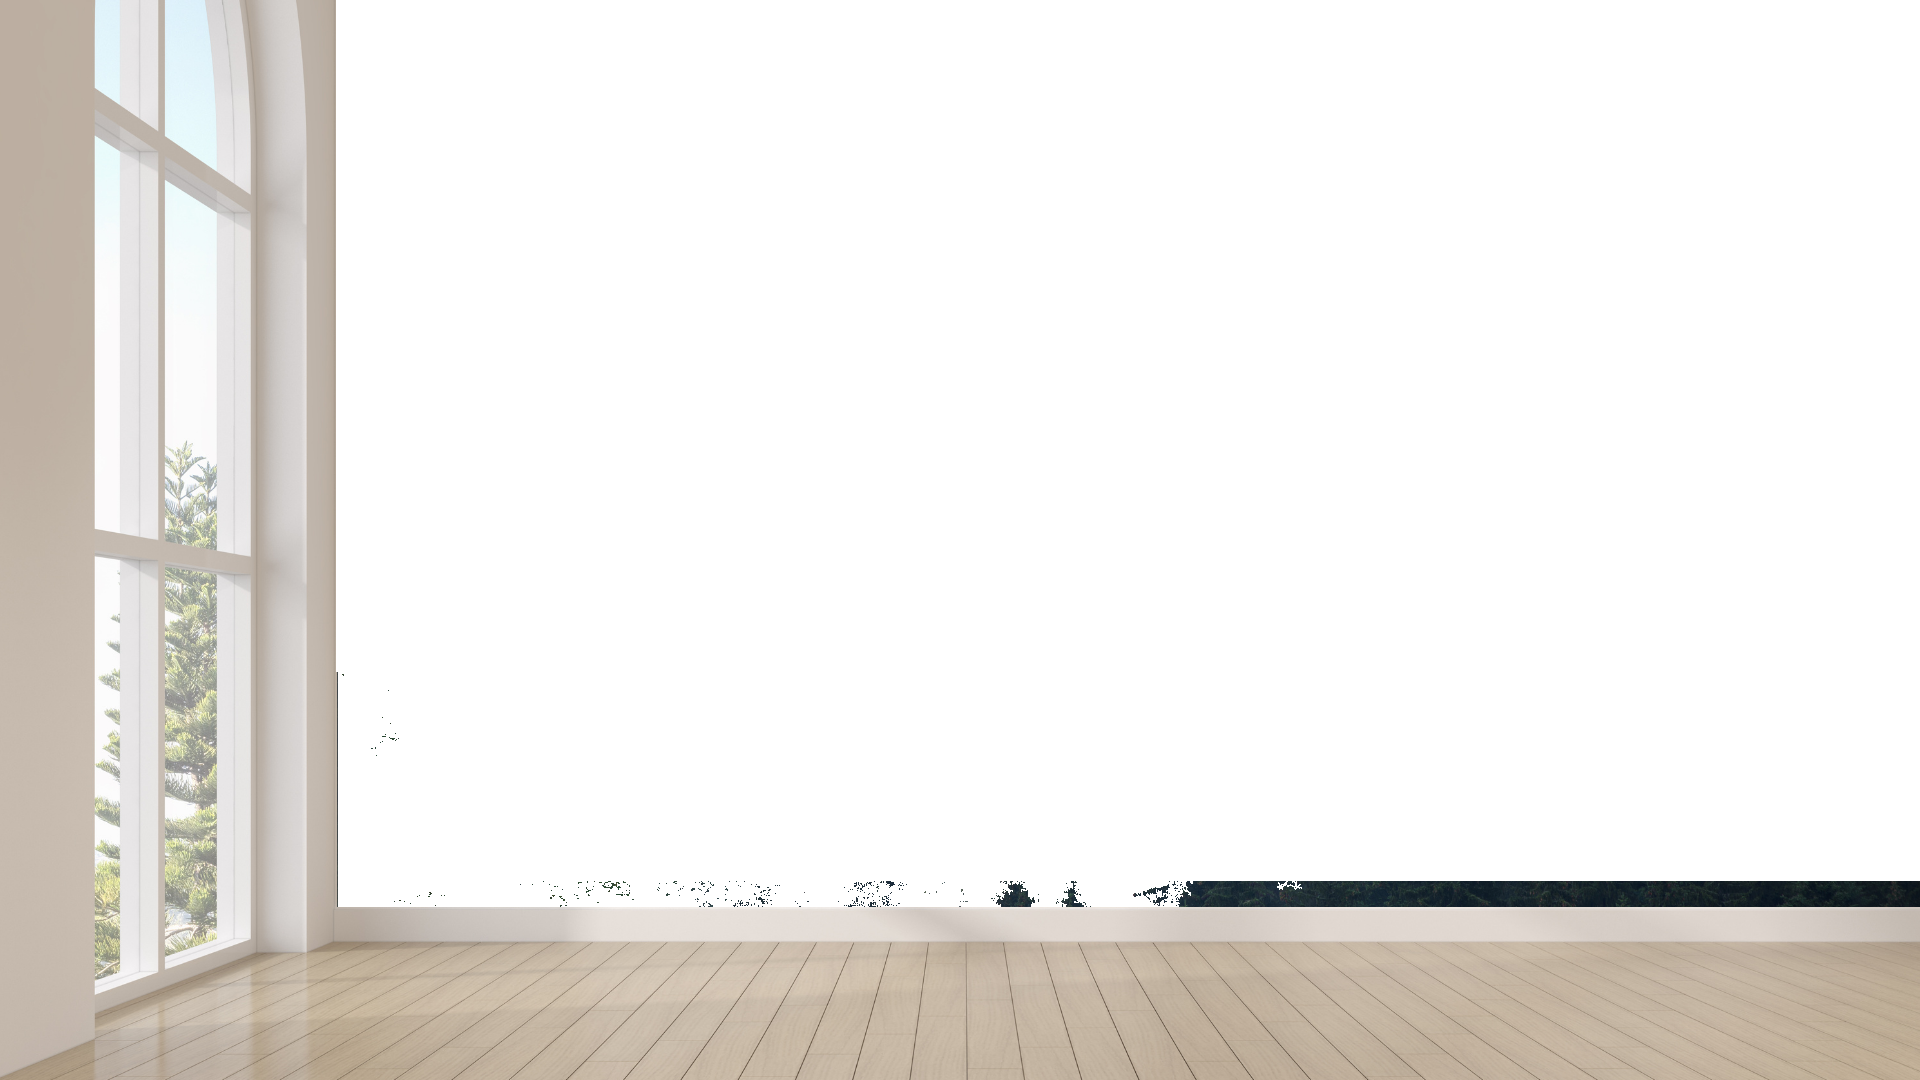
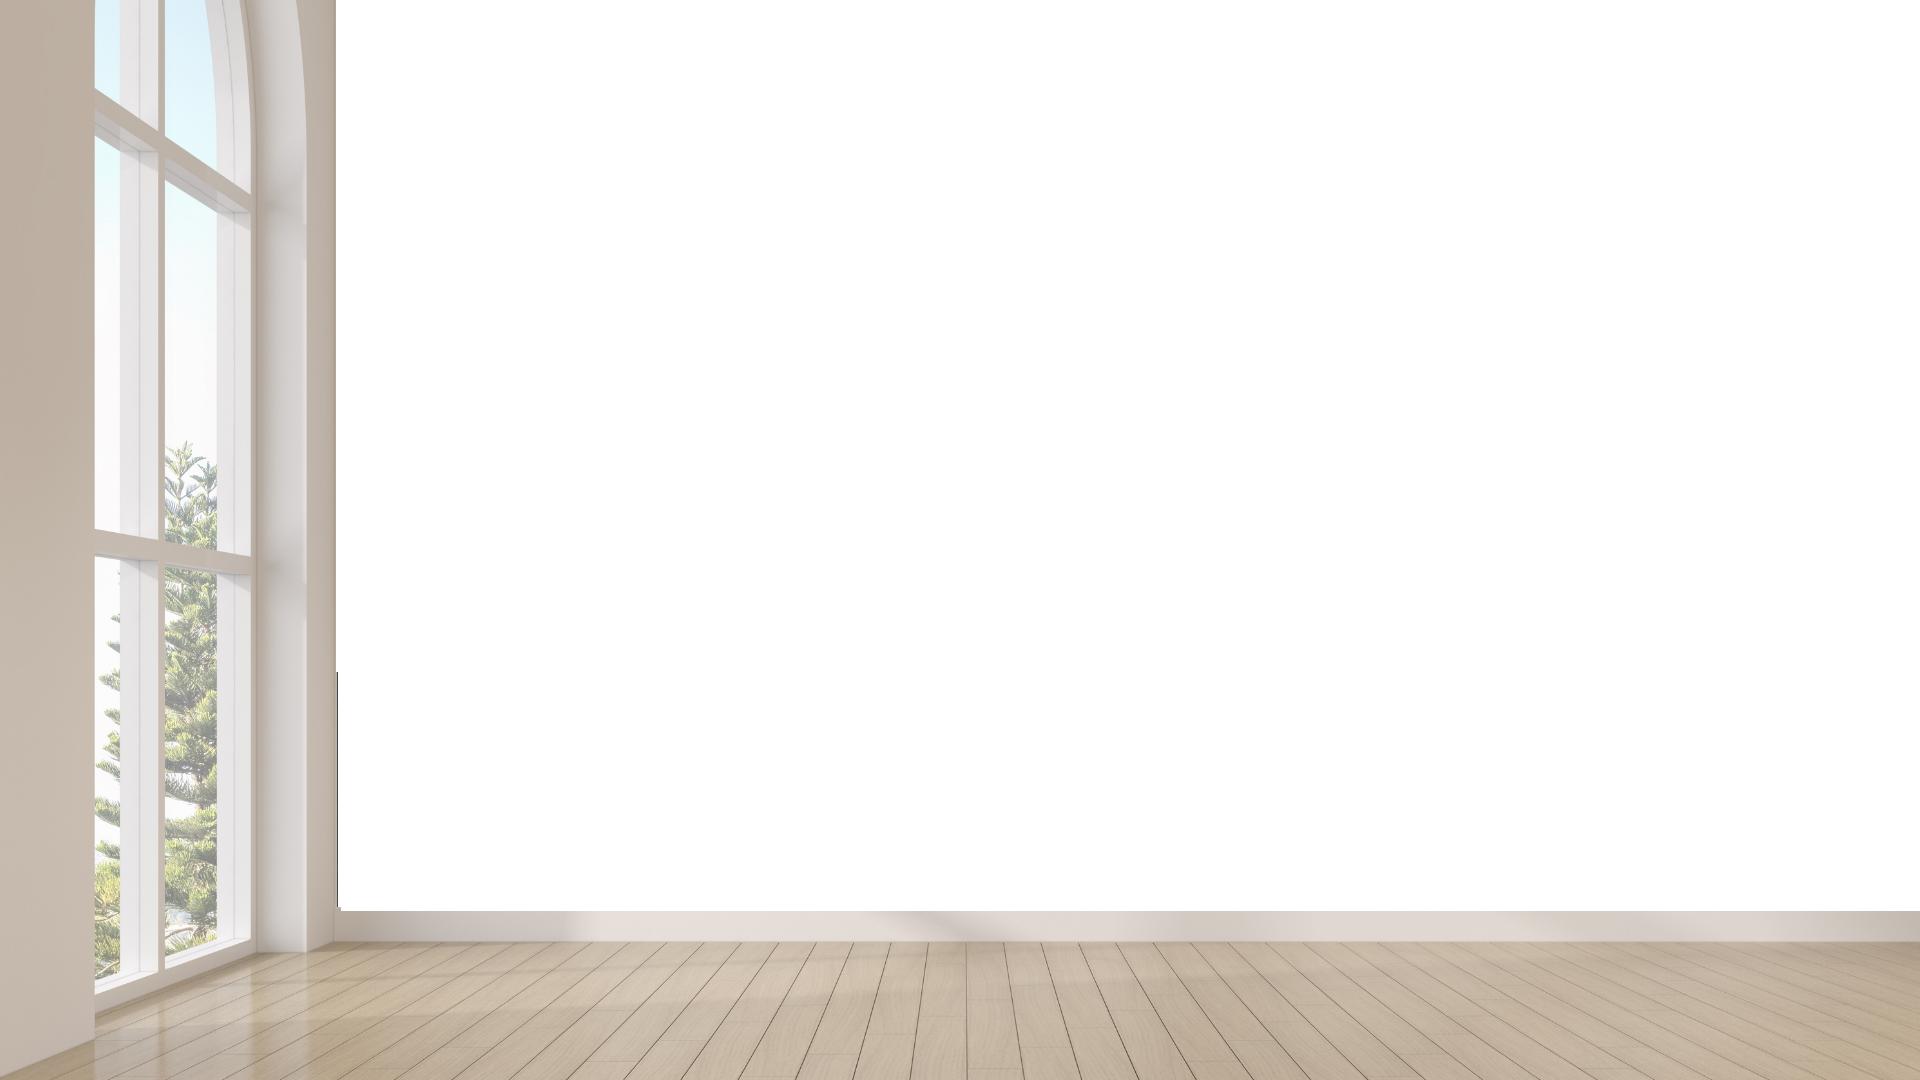
Changed textures on walls

Changed region(s): [[0.375, 0.7944, 1.0, 0.8556], [0.1875, 0.825, 0.3125, 0.8556]]

diff --git a/index.html b/index.html
@@ -72,6 +72,7 @@
       >
         <div class="carousel-inner">
           <div class="carousel-item carousel-item-1 active">
+            <div class="opacity-cover-1"></div>
             <img
               src="assets/images/haring.png"
               class="d-block w-100 h-100"
@@ -79,6 +80,7 @@
             />
           </div>
           <div class="carousel-item">
+            <div class="opacity-cover-2"></div>
             <img
               src="assets/images/pop.png"
               class="d-block w-100 h-100"
@@ -86,6 +88,7 @@
             />
           </div>
           <div class="carousel-item">
+            <div class="opacity-cover-3"></div>
             <img
               src="assets/images/newyork.png"
               class="d-block w-100 h-100"

diff --git a/assets/css/style.css b/assets/css/style.css
@@ -22,12 +22,34 @@
   height: 70vh;
 }
 
-.opacity-cover {
+.carousel-item {
+  position: relative;
+}
+
+.opacity-cover-1 {
+  position: absolute;
+  width: 100%;
+  height: 100%;
+  z-index: 1;
+  background: url("../images/wall2.jpg");
+  opacity: 0.4;
+}
+
+.opacity-cover-2 {
   position: absolute;
   width: 100%;
   height: 100%;
   z-index: 1;
   background: url("../images/wall.png");
+  opacity: 0.6;
+}
+
+.opacity-cover-3 {
+  position: absolute;
+  width: 100%;
+  height: 100%;
+  z-index: 1;
+  background-color: rgba(255, 255, 255, 0.536);
   opacity: 0.6;
 }
 
